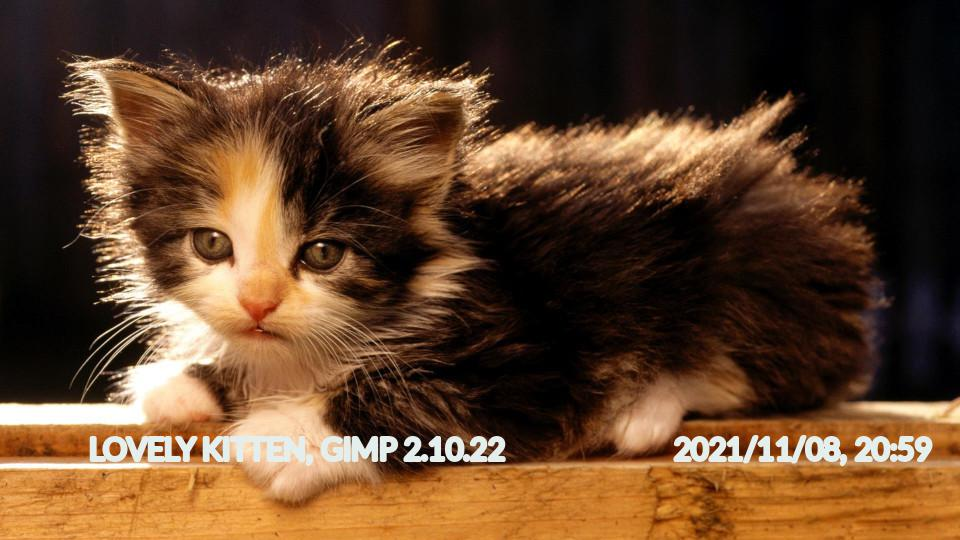
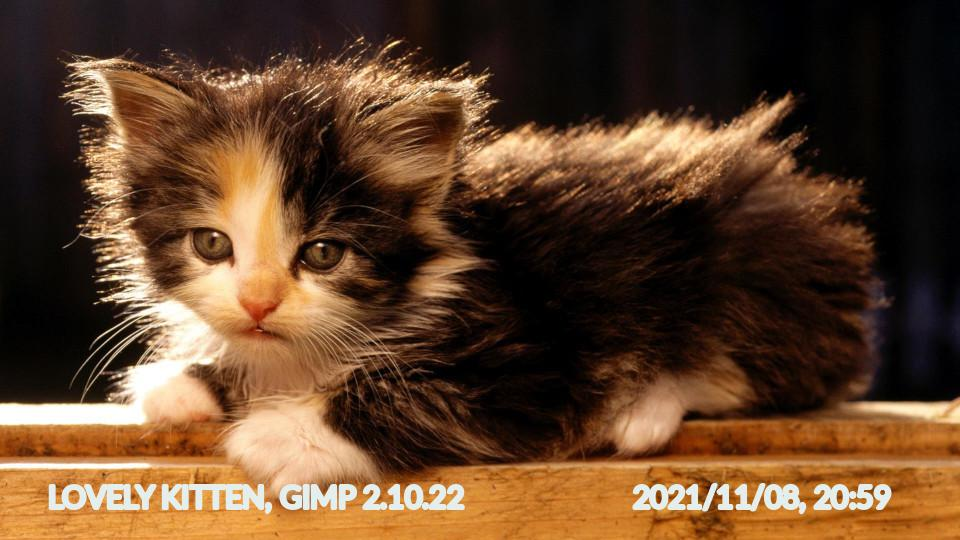
Add text alignment

diff --git a/imagecaptioner/captioner.py b/imagecaptioner/captioner.py
@@ -22,13 +22,16 @@ class ImageCaptioner:
                      size: str = None,
                      color: str = "blue",
                      bold: str = 1,
-                     singlethread: int = None) -> bool:
+                     align: str = "BOTTOM_LEFT",
+                     singlethread: int = None,
+                     ) -> bool:
         """
         Script for adding captions to the images based on the metadata, filename or user input.
 
         :rtype: bool Return true or raise Exception
         :param path:File or directory location
-        :param caption:Caption with variables support taken from metatags. To access variable in caption use e.g. ##DateTime, ##Make, ##Model
+        :param caption:Caption with variables support taken from metatags. To access variable in caption use
+        e.g. ##DateTime, ##Make, ##Model
         :param dateformat:Date time format
         :param output:Output file or directory, by default adds 'captioned_' prefix to file and '_captioned' suffix for file.
         :param overwrite:Overwrite already captioned photo with new one
@@ -37,10 +40,12 @@ class ImageCaptioner:
         :param size:Font size, by default automatically chosen.
         :param color:Font color
         :param bold:Font bold
+        :param align: Text alignment. Possible values: BOTTOM_LEFT, BOTTOM_RIGHT, TOP_LEFT, TOP_RIGHT, CENTER.
+        It can be used also with shorter versions like: bl, br, tl, tr, c
         :param singlethread:Use single thread (only works for directory)
         """
         args = {'path': path, 'caption': caption, 'dateformat': dateformat, 'output': output, 'overwrite': overwrite,
-                'preview': preview, 'font': font, 'size': size, 'color': color, 'bold': bold,
+                'preview': preview, 'font': font, 'size': size, 'color': color, 'bold': bold, 'align': align,
                 'singlethread': singlethread}
 
         logging.debug(f"Input arguments: {args}")
@@ -103,6 +108,7 @@ class ImageCaptioner:
             ImageCaptioner.__draw_image__(image=image, output_filename=output_filename, caption=caption,
                                           font_type=args['font'],
                                           font_color=args['color'], font_size=args['size'], stroke_width=args['bold'],
+                                          align=args['align'],
                                           preview=args['preview'],
                                           overwrite=args['overwrite'])
 
@@ -131,13 +137,11 @@ class ImageCaptioner:
                 return ""
 
     @staticmethod
-    def __draw_image__(image: Image, output_filename, caption, font_type, font_color, font_size, stroke_width,
+    def __draw_image__(image: Image, output_filename, caption, font_type, font_color, font_size, stroke_width, align,
                        preview, overwrite):
         if not overwrite and os.path.exists(output_filename):
             raise FileExistsError(f"File {output_filename} already exists. To overwrite use --overwrite flag.")
 
-        draw = ImageDraw.Draw(image)
-        width, height = image.size
         try:
             calculated_font_size = font_size or ImageCaptioner.__find_font_size__(caption, font_type, image)
         except ZeroDivisionError as error:
@@ -146,8 +150,13 @@ class ImageCaptioner:
 
         font = ImageFont.truetype(font_type, calculated_font_size)
 
-        draw.text(xy=(width / 15 + 25, height - (80 + calculated_font_size)), text=caption, fill=font_color, font=font,
-                  align="left", stroke_width=stroke_width)
+        draw = ImageDraw.Draw(image)
+        text_width, text_height = draw.textsize(caption, font=font)
+        text_position = ImageCaptioner.__calculate_alignment__(image.width, image.height, text_width, text_height,
+                                                               align)
+
+        draw.text(xy=text_position, text=caption, fill=font_color, font=font,
+                  stroke_width=stroke_width)
 
         if preview:
             image.show()
@@ -170,6 +179,46 @@ class ImageCaptioner:
         estimated_font_size = tested_font_size / (observed_width / image.width) * target_width_ratio
 
         return round(estimated_font_size)
+
+    @staticmethod
+    def __calculate_alignment__(image_width, image_height, text_width, text_height, align):
+        width_padding = image_width / 20
+        height_padding = image_height / 20
+
+        bottom_left = (width_padding, image_height - (height_padding + text_height))
+        bottom_right = (image_width - (width_padding + text_width), image_height - (height_padding + text_height))
+        top_left = (width_padding, height_padding)
+        top_right = (image_width - (width_padding + text_width), height_padding)
+        center = ((image_width - text_width) / 2, (image_height - text_height) / 2)
+
+        switch = {
+            'BOTTOM_LEFT': bottom_left,
+            'BOTTOM_RIGHT': bottom_right,
+            'TOP_LEFT': top_left,
+            'TOP_RIGHT': top_right,
+            'CENTER': center,
+
+            # Without underscore
+            'BOTTOMLEFT': bottom_left,
+            'BOTTOMRIGHT': bottom_right,
+            'TOPLEFT': top_left,
+            'TOPRIGHT': top_right,
+
+            # Only first letter cases
+            'BL': bottom_left,
+            'BR': bottom_right,
+            'TL': top_left,
+            'TR': top_right,
+            'C': center,
+
+            # Only first letter cases with underscores
+            'B_L': bottom_left,
+            'B_R': bottom_right,
+            'T_L': top_left,
+            'T_R': top_right,
+        }
+
+        return switch.get(align.upper())
 
 
 class DoubleHashTemplate(Template):

diff --git a/imagecaptioner/cli.py b/imagecaptioner/cli.py
@@ -40,6 +40,9 @@ def create_parser():
     parser.add_argument("--size", type=int, help="Font size, by default automatically chosen.")
     parser.add_argument("--color", type=str, help="Font color", default="blue")
     parser.add_argument("--bold", type=int, help="Font bold", default=1)
+    parser.add_argument("--align", type=str,
+                        help="Text alignment. Possible values: BOTTOM_LEFT, BOTTOM_RIGHT, TOP_LEFT, TOP_RIGHT, CENTER. It can be used also with shorter versions like: bl, br, tl, tr, c",
+                        default="BOTTOM_LEFT")
     parser.add_argument("--singlethread", action="count", help="Use single thread (only works for directory)")
     parser.add_argument('-v', '--verbose', help="Increase logging severity", action="store_const", dest="loglevel",
                         const=logging.INFO)
@@ -70,5 +73,6 @@ def main():
             size=args.size,
             color=args.color,
             bold=args.bold,
+            align=args.align,
             singlethread=args.singlethread,
         )

diff --git a/setup.py b/setup.py
@@ -5,7 +5,7 @@ with open("README.md", 'r') as f:
 
 setup(
     name='imagecaptioner',
-    version=0.3,
+    version=0.4,
     url="https://github.com/greencashew/image-captioner",
     author="Jan Górkiewicz (https://greencashew.dev/)",
     license='MIT',

diff --git a/README.md b/README.md
@@ -10,7 +10,7 @@ Source Image:
 ![](https://raw.githubusercontent.com/greencashew/image-captioner/main/example/kitten.jpg)
 
 ```console
-imagecaptioner kitten.jpg
+imagecaptioner kitten.jpg --align=tr
 ```
 
 result:
@@ -57,6 +57,8 @@ optional arguments:
   --size SIZE           Font size, by default automatically chosen.
   --color COLOR         Font color
   --bold BOLD           Font bold
+  --align ALIGN         Text alignment. Possible values: BOTTOM_LEFT, BOTTOM_RIGHT, TOP_LEFT, TOP_RIGHT, CENTER. 
+  It can be used also with shorter versions like: bl, br, tl, tr, c
   --singlethread        Use single thread (only works for directory)
   -v, --verbose         Increase logging severity
 
@@ -69,7 +71,7 @@ Examples:
     Show metatags:
     > imagecaptioner 20190116_111115.jpg -m
     > imagecaptioner images/ -m
-
+    
 ```
 
 ### Python library
